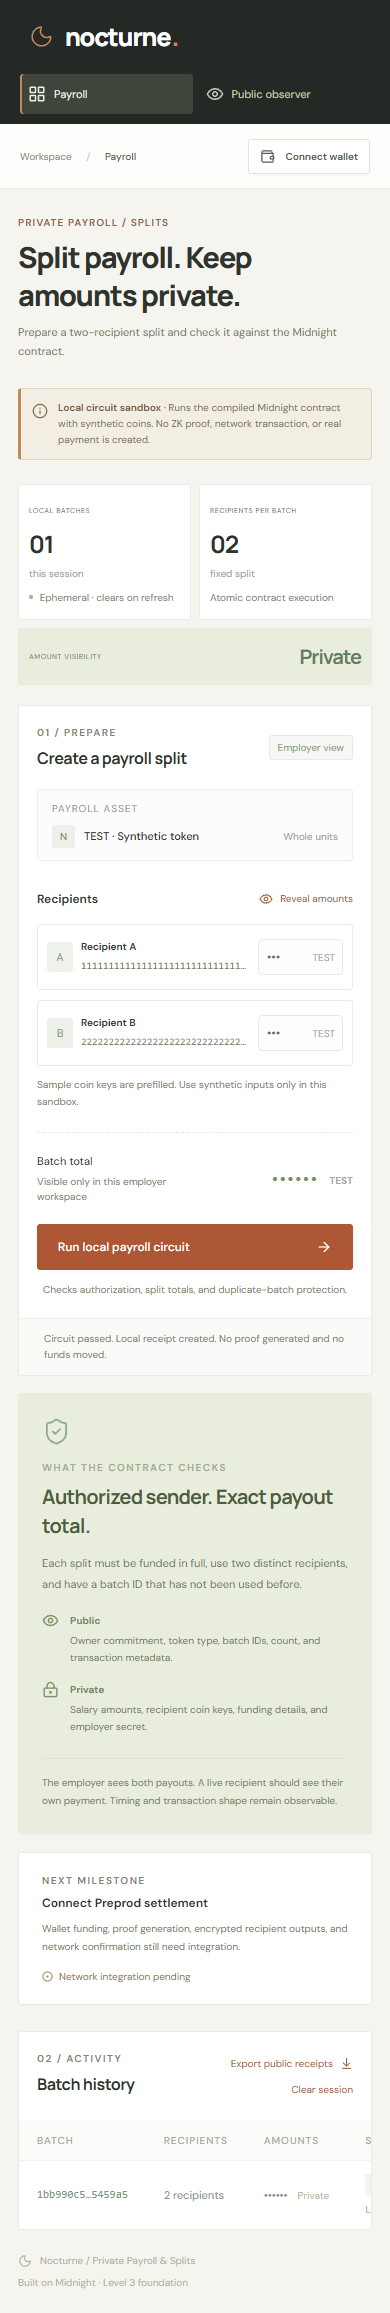
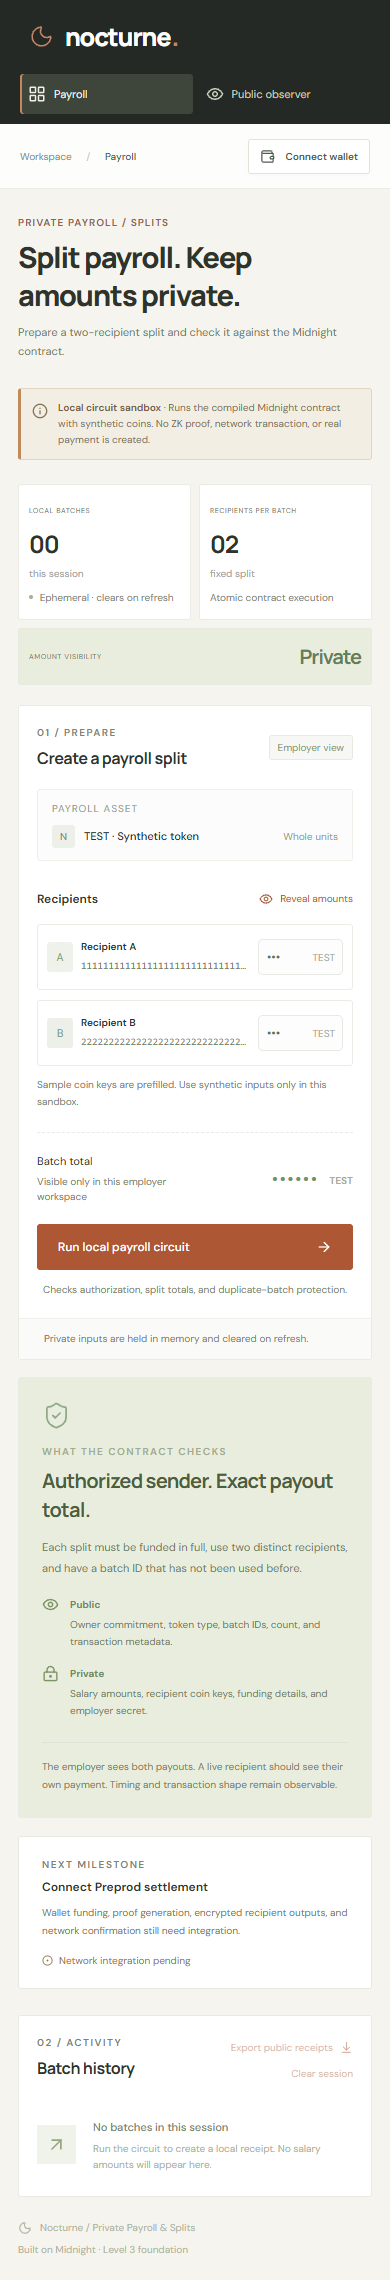
docs: publish Level 3 status and verification evidence

diff --git a/README.md b/README.md
@@ -1,36 +1,36 @@
 # Nocturne
 
-CI workflow: [Compile and test](.github/workflows/ci.yml). Remote status is pending because this project has not been pushed to GitHub.
+[![Compile and test](https://github.com/Mrinmoy-programmer07/Nocturne/actions/workflows/ci.yml/badge.svg)](https://github.com/Mrinmoy-programmer07/Nocturne/actions/workflows/ci.yml)
 
 > Private Payroll / Splits for two recipients, built with Midnight Compact.
 
-**Current milestone:** compiled contract with proving keys, passing local tests, and a working browser sandbox. This is a Level 3 foundation, not a completed challenge submission or a live payment service.
+**Current milestone:** compiled contracts with proving keys, 29 passing tests, a browser sandbox, and a wallet-backed Preprod flow. Public-network settlement remains unverified until a funded Preprod wallet completes the recipient-delivery test.
 
 ## Live Demo
 
-Local preview: `http://127.0.0.1:4173` after `npm run build` and `npm run preview`.
+Public demo: deployment URL is recorded here after the production deploy.
 
-Public demo: not deployed. The frontend currently executes the actual compiled circuit with synthetic coins in browser memory. It does not generate a proof, submit a transaction, or transfer funds. Connecting a wallet does not change that mode.
+The **Payroll** view executes the compiled circuit with synthetic coins and clearly marks receipts as unsettled. **Preprod payments** connects a DApp Connector v4 wallet, stores employer state encrypted in IndexedDB, obtains proving through the wallet, balances and submits transactions through the wallet, and shows settlement only after indexer confirmation.
 
 ## Contract Address
 
 | Network | Address |
 | --- | --- |
-| Preprod | Not deployed. No verified address yet. |
+| Preprod | User-deployed from the live app. No canonical address is claimed until funded end-to-end verification is complete. |
 
 ## What This Does
 
 An employer prepares a two-recipient payroll split. The Compact contract verifies the employer's secret against its public commitment, checks the token and exact funding, rejects duplicate batches and recipients, and describes two shielded outputs. The browser provides an employer workspace, amount masking, local circuit execution, a public receipt view, history and receipt export.
 
-The current UI is a sandbox for inspecting contract behavior. It uses the compiler-generated JavaScript contract, not a separate approximation of the business rules. Synthetic coin data can satisfy local execution; only the network ledger can establish actual funding and final settlement.
+The sandbox uses the compiler-generated JavaScript contract. Synthetic coin data can satisfy local execution; only the network ledger establishes funding and settlement. The Preprod path uses full shielded recipient addresses so the SDK can resolve each recipient's encryption key.
 
 ## Privacy Model
 
 - **PUBLIC:** employer commitment, configured token color, random batch IDs and batch count. On a live network, transaction timing, commitments, nullifiers and transaction shape are observable too. The fixed two-recipient design reveals the expected batch size.
-- **PRIVATE:** employer secret, funding coin data, payout amounts and recipient keys are witness inputs. Local execution retains these in browser memory. No private-state persistence, server API, analytics or private receipt export is implemented.
-- **PROVED without revealing, once integrated with network proving:** the caller knows the employer secret, each payment is positive, recipients differ, the correct token exactly funds the split, and the batch ID has not been accepted before. Current local tests execute these constraints; they do not generate or verify ZK proofs.
+- **PRIVATE:** employer secret, funding coin data, payout amounts and recipient keys are witness inputs. Preprod employer state is encrypted in browser storage with a user-supplied password. Public receipts exclude private inputs.
+- **PROVED without revealing:** the caller knows the employer secret, each payment is positive, recipients differ, the correct token exactly funds the split, and the batch ID has not been accepted before. Local tests execute these constraints; a funded Preprod run is still required to verify the complete proof and recipient-discovery path.
 
-The employer sees both payouts. Each recipient should learn their own coin and amount after proper encrypted-output delivery is implemented. A remote proving service may receive witnesses; use a trusted local prover or explicitly assess the wallet's proving model. Do not claim privacy from the employer, the proving environment, browser extensions, or a compromised device.
+The employer sees both payouts. The SDK receives each recipient's coin and encryption public keys so outputs can be encrypted for their wallet. A proving provider may receive witnesses; assess the connected wallet's proving model. Do not claim privacy from the employer, proving environment, browser extensions, or a compromised device.
 
 `disclose(...)` around standard-library shielded calls acknowledges their commitment/nullifier links and branch leakage. Raw private data is not written to this contract's ledger. Never log or serialize complete `CircuitResults`: they include private state, witness transcripts and unencrypted local output data. Only the explicit public receipt projection is exportable.
 
@@ -54,7 +54,7 @@ Version choices follow the [Midnight compatibility matrix](https://docs.midnight
 - Node.js 22 or newer and npm.
 - The official Compact CLI and toolchain 0.31.1. On Windows, install these inside WSL Ubuntu. Windows' built-in `compact.exe` is unrelated to Midnight.
 - A v4-compatible Midnight wallet on Preprod to exercise wallet connection. No wallet is needed for the local circuit sandbox.
-- Network settlement will additionally need funded shielded coins, DUST, indexer access and a compatible proving provider. Those integrations are not complete.
+- A funded Preprod wallet with DUST is required for network settlement. The included demo-token contract can mint a one-time test supply with no monetary value.
 
 ## Setup & Run Locally
 
@@ -90,7 +90,7 @@ npm run compile
 npm test -- --reporter=verbose
 ```
 
-The current suite has **24 passing tests**. Tests execute the generated Compact contract and cover valid splits, public state transitions, unauthorized access, replay, incorrect funding, token mismatch, invalid amounts, duplicate recipients and private receipt exclusion. Input tests check exact integer arithmetic and bounds. Local circuit success does not prove a coin exists or a transaction can settle.
+The current suite has **29 passing tests**. Tests execute both generated Compact contracts and cover valid splits, public state transitions, authorization, replay, funding, token mismatch, invalid amounts, duplicate recipients, fixed demo supply and public receipt boundaries. Local circuit success does not prove a coin exists or a transaction can settle.
 
 Full check:
 
@@ -102,23 +102,18 @@ npm run check
 
 [.github/workflows/ci.yml](.github/workflows/ci.yml) runs on every push, pull request and manual dispatch. It installs Node 22 and locked dependencies, installs the pinned Compact toolchain, generates proving keys, runs tests, typechecks, builds the frontend and uploads the build artifact.
 
-There is no passing GitHub run or live status badge yet. After the owner creates a public repository and pushes this project, add the real badge below the title:
-
-```md
-[![Compile and test](https://github.com/OWNER/REPO/actions/workflows/ci.yml/badge.svg)](https://github.com/OWNER/REPO/actions/workflows/ci.yml)
-```
-
-Replace OWNER/REPO with the actual repository. Do not use a fabricated green badge. Hosting is separate from this compile-and-test workflow; deploying `dist/` currently publishes only the sandbox.
+The public repository is [Mrinmoy-programmer07/Nocturne](https://github.com/Mrinmoy-programmer07/Nocturne). The first full workflow passed, and the badge above reads the live workflow state.
 
 ## Product Proposal
 
-See [PROPOSAL.md](PROPOSAL.md), drafted for **Private Payroll / Splits** using the PDF's four proposal headings. Owner review, submission and external approval are pending. See [Level 3 checklist](docs/LEVEL3.md) and the [one-minute demo script](docs/DEMO.md).
+See [PROPOSAL.md](PROPOSAL.md), drafted for **Private Payroll / Splits** using the PDF's four proposal headings. External submission and organizer approval remain pending because no submission portal was provided. See [Level 3 checklist](docs/LEVEL3.md) and the [one-minute demo script](docs/DEMO.md).
 
 ## Screenshots and Verification
 
 - [Desktop workspace](docs/evidence/desktop.png)
 - [Mobile workspace](docs/evidence/mobile.png)
 - [Public observer](docs/evidence/observer.png)
+- [Preprod workspace](docs/evidence/preprod.png)
 - [Test output screenshot](docs/evidence/test-output.png), rendered from the [actual captured test log](docs/evidence/tests.txt)
 - [Verification report and remaining limitations](docs/VERIFICATION.md)
 

diff --git a/docs/LEVEL3.md b/docs/LEVEL3.md
@@ -10,38 +10,38 @@
 - [x] Wallet connector v4 integration, with network checking and local disconnect.
 - [x] Compile + tests + frontend build workflow on every push and PR.
 - [x] README privacy model and product proposal draft.
+- [x] Public GitHub repository with 10 meaningful commits.
+- [x] Passing GitHub Actions workflow and live badge.
+- [x] Wallet-backed Preprod deploy, prove, submit and confirmation code path.
+- [x] Recipient encryption-key mapping from full shielded addresses.
 
 ## Still required before claiming a pass
 
-- [ ] Real funding and proof/transaction integration.
-- [ ] Recipient output encryption/discovery, confirmed by two recipient wallets.
+- [ ] Complete a funded Preprod proof and transaction with recorded transaction evidence.
+- [ ] Confirm encrypted output discovery and spend with two recipient wallets.
 - [ ] Deploy the contract to Preprod and record the verified address.
 - [ ] Verify wallet connect, fund, prove, submit, confirm and recipient spend end to end.
-- [ ] Create a public GitHub repository and push the project.
-- [ ] Record passing GitHub Actions runs and add the real CI badge.
-- [ ] Publish a live demo connected to the deployed contract.
+- [x] Create a public GitHub repository and push the project.
+- [x] Record passing GitHub Actions runs and add the real CI badge.
+- [ ] Publish and browser-check the live demo.
 - [x] Capture local test output evidence: [screenshot](evidence/test-output.png) and [log](evidence/tests.txt).
 - [ ] Record the one-minute end-to-end network demo after integration.
 - [ ] Owner reviews and submits PROPOSAL.md; organizer approves it.
-- [ ] Accumulate at least 10 meaningful commits.
+- [x] Accumulate at least 10 meaningful commits.
 
-No remote repository, deployment, approval or commit history is fabricated. The empty starting workspace supplied no Level 2 repository, deployed address, funded wallet or submission destination.
+No network transaction, external approval or demo video is fabricated. The project has no funded wallet or submission destination in the provided workspace.
 
 ## Implementation sequence
 
-1. Review the bounded two-recipient proposal and privacy threat model.
-2. Provision one supported shielded asset and a funded employer wallet on Preprod.
-3. Implement providers around the compiled contract and deploy it with a securely generated employer secret. Store that secret encrypted; never put it in frontend environment variables.
-4. Construct the transaction that funds the incoming contract coin. The local witness alone is not funding.
-5. Add encrypted output delivery for both recipient wallets. Standard-library send calls do not by themselves prove recipient discovery works.
-6. Add proof generation and submit through the selected wallet; derive displayed success only from confirmed chain execution.
-7. Test duplicate/racing transactions, failures, reload/recovery and wrong-network states with real providers.
-8. Publish the repository and verify the workflow, then deploy the frontend with its verified contract address.
-9. Record evidence, submit the proposal and track external approval.
+1. Fund a synthetic employer wallet with Preprod NIGHT and allow DUST to accrue.
+2. Use the live app to deploy the fixed-supply demo asset, mint it, then deploy payroll.
+3. Submit a split to two test recipient wallets and record the confirmed transaction.
+4. Confirm each wallet discovers and can spend its own encrypted output.
+5. Record the one-minute video, submit the proposal through the organizer's portal, and track approval.
 
 ## Meaningful commit milestones
 
-These are suggested logical milestones, not completed commits. Review the files before committing and use your own configured Git identity.
+The repository contains these ten completed development commits:
 
 1. `chore: initialize pinned payroll toolchain and project structure`
 2. `feat: enforce authorized atomic shielded payroll splits`
@@ -52,6 +52,6 @@ These are suggested logical milestones, not completed commits. Review the files 
 7. `feat: connect Midnight wallets and validate Preprod selection`
 8. `ci: compile Compact and verify tests and build on push`
 9. `docs: define payroll proposal and explicit privacy model`
-10. `feat: integrate and verify Preprod funding and settlement` (future work)
+10. `feat: add encrypted Preprod payroll workspace`
 
 Do not split empty changes into commits just to inflate the count. Preserve the ten-commit requirement as real development history.

diff --git a/docs/VERIFICATION.md b/docs/VERIFICATION.md
@@ -1,11 +1,11 @@
 # Local verification
 
-The tested flow is employer input, compiled Compact circuit execution, public receipt, then observer view. No server or blockchain submission is involved in this milestone.
+The verified local flow is employer input, compiled Compact circuit execution, public receipt, observer view, and the browser-rendered Preprod workspace. Blockchain settlement still needs a funded wallet and two recipients.
 
 | Boundary | Result | Evidence |
 | --- | --- | --- |
 | Compact compile | Passed | Generated contract, ZKIR, `pay.prover` and `pay.verifier` in managed/payroll |
-| Contract/application tests | 24 passed | [Captured output](evidence/tests.txt) |
+| Contract/application tests | 29 passed | [Captured output](evidence/tests.txt) |
 | TypeScript and production build | Passed | `npm run build` |
 | Desktop UI | Passed | [Screenshot](evidence/desktop.png) |
 | Mobile UI | Passed at 390 x 844 | [Full-page screenshot](evidence/mobile.png); document width does not exceed viewport |
@@ -15,12 +15,13 @@ The tested flow is employer input, compiled Compact circuit execution, public re
 | Wallet absent | Passed | Clear wallet-install/unlock guidance; no false connected state |
 | Console and page exceptions | None observed after runtime fix | Browser console/error checks |
 | Receipt export data | Unit-tested allowlist | Only mode, batch ID, batch count, token and false settlement flag |
-| Actual file download | Automation limitation | Browser automation canceled downloads; requires a manual browser check |
+| Encrypted storage and public export | Code and unit boundaries passed | Private state uses encrypted IndexedDB; public receipts use an explicit allowlist |
 | Wallet on Preprod | Not verified | A compatible connected wallet was not available in the test browser |
-| Proof generation and network payment | Not implemented | Explicitly pending; no synthetic transaction IDs or confirmations |
+| Proof generation and network payment | Implemented, not funded | Uses the wallet proving provider, balance/submit APIs, and indexer-finalized receipts; no transaction is claimed without evidence |
+| Recipient ciphertext mapping | Implemented, not recipient-verified | Full shielded addresses provide coin and encryption public keys to the Midnight SDK |
 
 The compiler-generated sourcemap references its standard-library source, which is not copied into this repository. Vitest warns about that source file; contract execution tests still pass. This is not a proof-generation or settlement error.
 
-The initial browser test caught Compact runtime 0.16.0 using Node's `Buffer` during shielded commitment construction. The application now provides the browser Buffer implementation before circuit execution. Subsequent runs passed.
+The initial browser test caught Compact runtime 0.16.0 using Node's `Buffer` during shielded commitment construction. The application provides the browser Buffer implementation before circuit execution. Browser verification now passes for the sandbox and lazy-loaded Preprod workspace with no error overlay or horizontal mobile overflow.
 
 Regenerate the test log and its HTML view with `node scripts/test-evidence.mjs`. Screenshot `tmp/test-output.html` if fresh visual evidence is needed. Keep the original captured text with the image so reviewers can inspect the source of the screenshot.

diff --git a/PROPOSAL.md b/PROPOSAL.md
@@ -4,7 +4,7 @@ Selected idea: **Private Payroll / Splits: distribute funds without exposing amo
 
 Product name: **Nocturne**
 
-Status: Draft for the project owner to review and submit. Not submitted or approved.
+Status: Implementation-ready proposal. External submission and organizer approval are not yet recorded.
 
 ## What is the product, and who uses it?
 
@@ -37,9 +37,9 @@ Nocturne uses `receiveShielded` and two `sendImmediateShielded` calls. A random 
 
 ## Mainnet Feasibility
 
-The bounded two-recipient MVP is technically realistic as a development target, but mainnet readiness is not established. The current foundation compiles with Compact 0.31.1 and executes the generated contract locally. The frontend runs synthetic coins, not live money.
+The bounded two-recipient MVP is technically realistic, but mainnet readiness is not established. The project compiles with Compact 0.31.1, executes generated circuits locally, and includes a wallet-backed Preprod deployment and payment path.
 
-Before a Preprod release, implement real funding, wallet provider wiring, recipient ciphertext delivery, proof generation, transaction submission, confirmation and rejection handling. Verify both recipients can discover and spend their outputs. A contract-generated output alone does not establish wallet receipt.
+Before treating the Preprod flow as verified, fund an employer wallet with NIGHT/DUST, deploy the demo asset and payroll contracts, submit a split, and confirm both recipient wallets discover and can spend their encrypted outputs. The UI includes these operations but the repository does not claim they have completed without transaction evidence.
 
 Before any mainnet use, obtain a security review, test the complete payment flow on the target network, choose a suitable shielded asset, add secure secret backup and recovery, assess prover privacy, and plan how growing batch state will be managed. Keep local circuit tests distinct from proof verification and chain settlement.
 

diff --git a/docs/USAGE.md b/docs/USAGE.md
@@ -8,6 +8,8 @@
 6. Open **Public observer** to inspect the batch ID and local result without displaying amounts. This view is not a separate security boundary.
 7. **Export public receipts** downloads only the allowlisted public projection. **Clear session** clears local history/private runtime state and restores sample inputs. Refreshing also resets the session.
 
-Wallet connection is optional and independent of circuit execution. Install a compatible Midnight wallet, unlock it, set Preprod, then click **Connect wallet**. The app checks the returned network and shows a shortened shielded address. **Disconnect** clears the app's handle; revoke remembered site permission in the wallet settings if desired. Wallet signing and payment submission are not implemented yet.
+Wallet connection is optional for the sandbox. For Preprod, install a DApp Connector v4 wallet, select Preprod, connect, then open **Preprod payments**. Unlock encrypted browser storage with a strong password, create or enter a test shielded asset, deploy payroll, enter two complete shielded recipient addresses, and submit the split. Export an encrypted key backup after deployment. A receipt is marked settled only after the indexer reports full success.
 
-No private values are written to localStorage, a backend, or downloaded receipts. They are still accessible in the browser's memory to the person controlling that browser. Do not enter actual payroll data, seed phrases or real employer secrets.
+Preprod needs a funded wallet with DUST. The demo-token path creates 1,000,000 test units with no monetary value. Use synthetic recipient wallets and verify both wallets discover the encrypted output before claiming end-to-end completion.
+
+No private values are written to localStorage or a backend. Network employer state is encrypted in IndexedDB; exported backups remain encrypted. Public receipts never contain salaries or recipient keys. Do not enter seed phrases or real payroll data.

diff --git a/docs/DEMO.md b/docs/DEMO.md
@@ -1,6 +1,6 @@
 # One-minute submission demo
 
-Record this only after the pending network integration and deployment are complete.
+Record this after a funded Preprod transaction and two-recipient delivery check are complete. Do not substitute the local sandbox for network confirmation.
 
 | Time | Action |
 | --- | --- |
